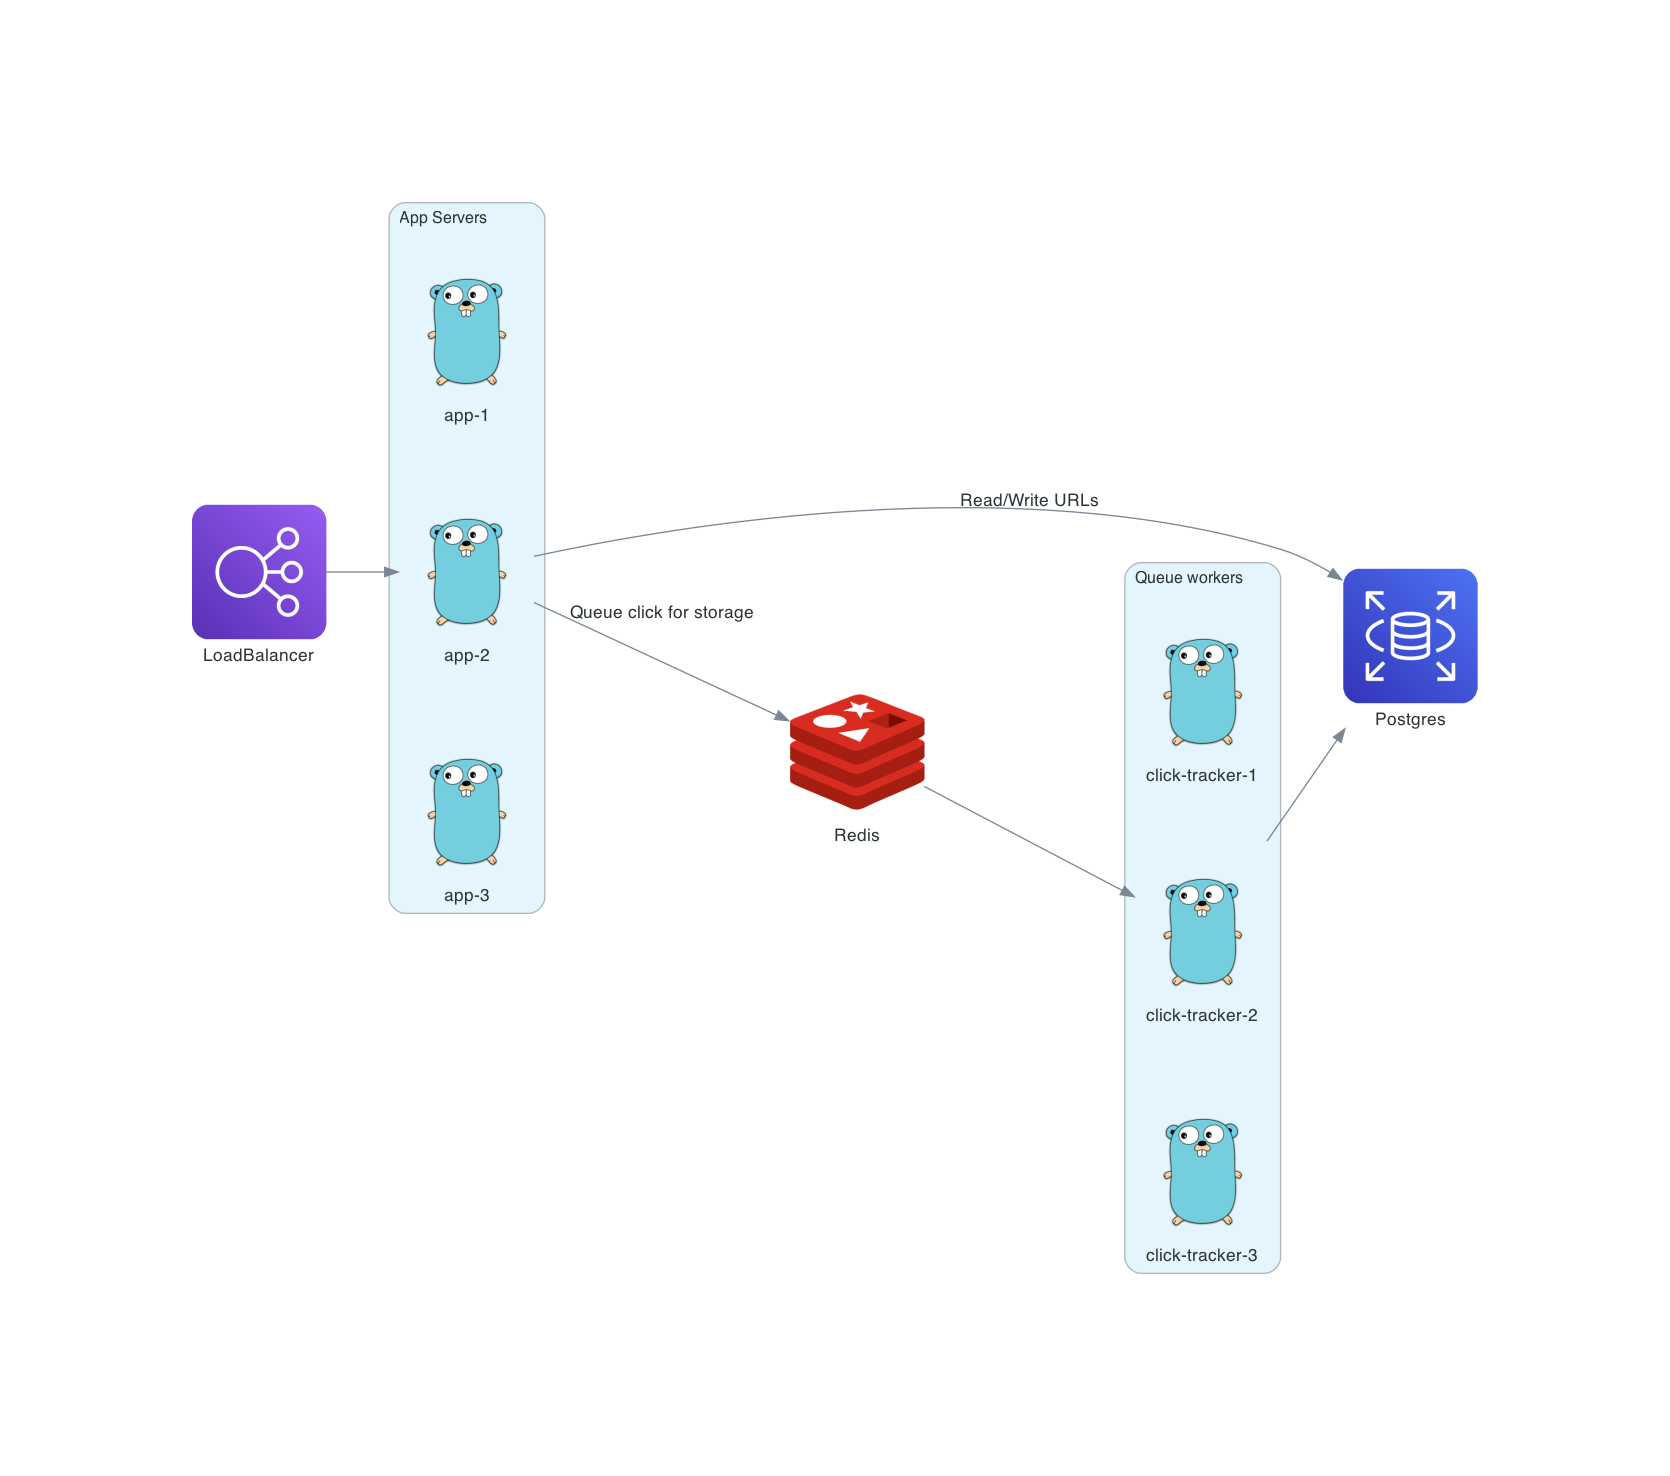
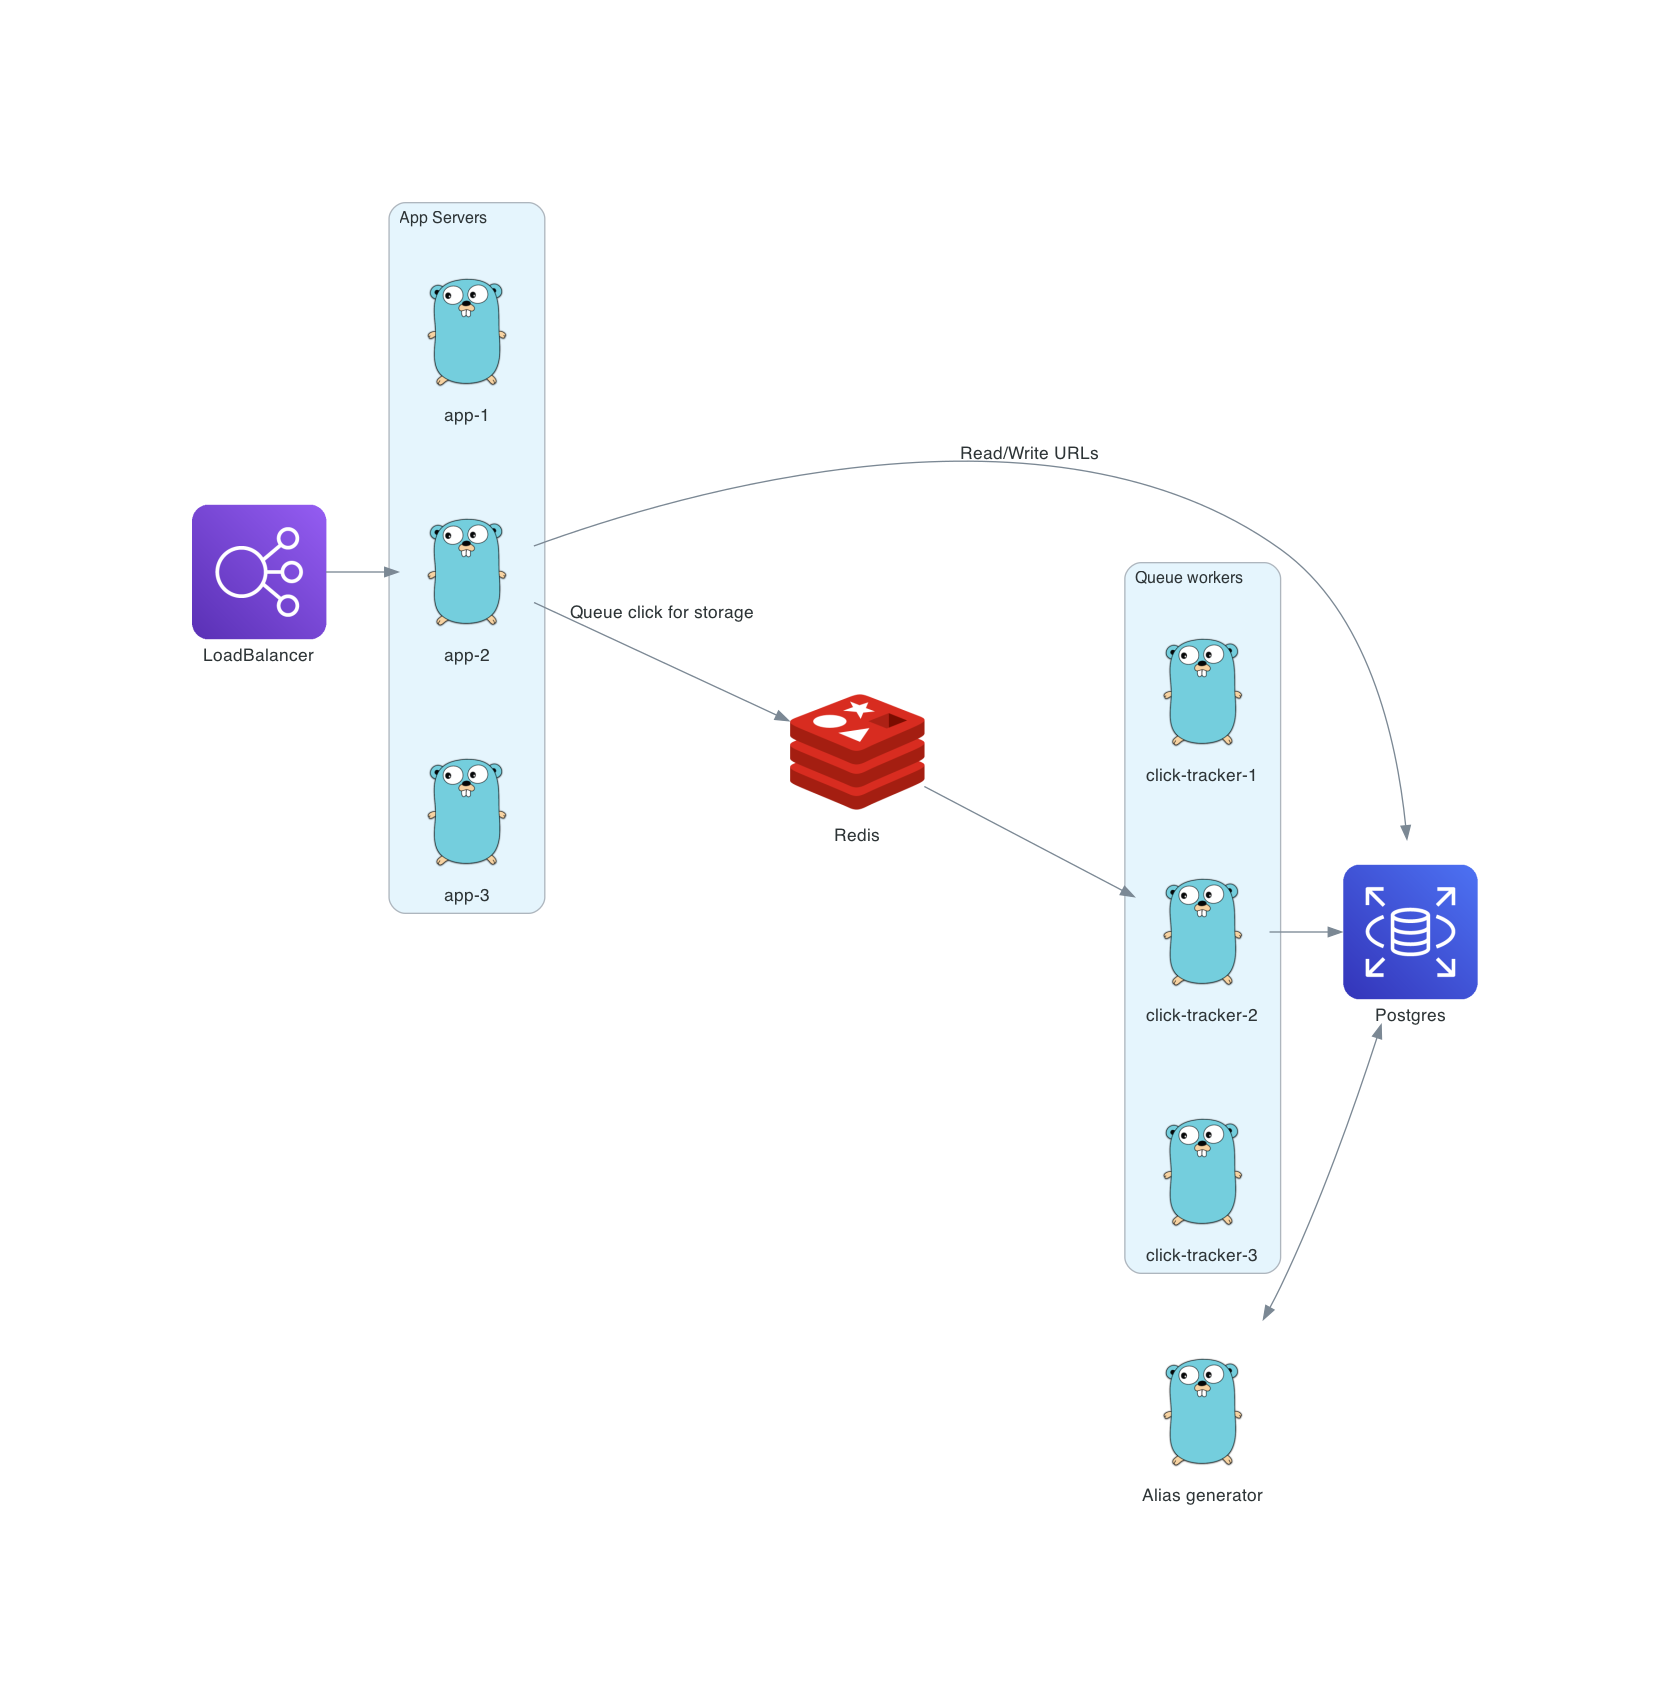
feat: add click retention worker

diff --git a/internal/urls/retention_test.go b/internal/urls/retention_test.go
@@ -1,0 +1,56 @@
+package urls_test
+
+import (
+	"context"
+	"testing"
+	"time"
+
+	"github.com/henrywhitaker3/boiler"
+	"github.com/henrywhitaker3/shorturl/internal/config"
+	"github.com/henrywhitaker3/shorturl/internal/test"
+	"github.com/henrywhitaker3/shorturl/internal/urls"
+	"github.com/stretchr/testify/require"
+)
+
+func TestItDeletesClick(t *testing.T) {
+	b := test.Boiler(t)
+
+	ctx, cancel := context.WithTimeout(context.Background(), time.Second*30)
+	defer cancel()
+
+	url := test.Url(t, b, test.UrlOpts{})
+
+	clicks := boiler.MustResolve[*urls.Clicks](b)
+
+	stats, err := clicks.Stats(ctx, url.ID)
+	require.Nil(t, err)
+	require.Zero(t, stats.Clicks)
+
+	require.Nil(t, clicks.Click(ctx, urls.StoreClick{
+		ID:   url.ID,
+		IP:   "127.0.0.1",
+		Time: time.Now().Add(-time.Hour),
+	}))
+	require.Nil(t, clicks.Click(ctx, urls.StoreClick{
+		ID:   url.ID,
+		IP:   "127.0.0.1",
+		Time: time.Now(),
+	}))
+
+	stats, err = clicks.Stats(ctx, url.ID)
+	require.Nil(t, err)
+	require.Equal(t, 2, stats.Clicks)
+
+	retention := urls.NewRetention(urls.RetentionOpts{
+		Clicks: clicks,
+		Config: config.Retention{
+			Enabled: true,
+			Period:  time.Minute,
+		},
+	})
+	require.Nil(t, retention.Run(ctx))
+
+	stats, err = clicks.Stats(ctx, url.ID)
+	require.Nil(t, err)
+	require.Equal(t, 1, stats.Clicks)
+}

diff --git a/internal/http/handlers/urls/visit.go b/internal/http/handlers/urls/visit.go
@@ -5,6 +5,7 @@ import (
 	"time"
 
 	"github.com/henrywhitaker3/boiler"
+	"github.com/henrywhitaker3/shorturl/internal/config"
 	"github.com/henrywhitaker3/shorturl/internal/http/common"
 	"github.com/henrywhitaker3/shorturl/internal/http/middleware"
 	"github.com/henrywhitaker3/shorturl/internal/logger"
@@ -17,12 +18,14 @@ import (
 type VisitHandler struct {
 	urls  urls.Urls
 	queue *queue.Publisher
+	track bool
 }
 
 func NewVisitHandler(b *boiler.Boiler) *VisitHandler {
 	return &VisitHandler{
 		urls:  boiler.MustResolve[urls.Urls](b),
 		queue: boiler.MustResolve[*queue.Publisher](b),
+		track: boiler.MustResolve[*config.Config](b).Tracking.Enabled,
 	}
 }
 
@@ -49,12 +52,14 @@ func (v *VisitHandler) Handler() echo.HandlerFunc {
 			return common.Stack(err)
 		}
 
-		if err := v.queue.Push(ctx, queue.ClickTask, queue.ClickJob{
-			ID:   url.ID,
-			IP:   c.RealIP(),
-			Time: time.Now(),
-		}); err != nil {
-			logger.Logger(ctx).Error("failed to queue click", "error", err)
+		if v.track {
+			if err := v.queue.Push(ctx, queue.ClickTask, queue.ClickJob{
+				ID:   url.ID,
+				IP:   c.RealIP(),
+				Time: time.Now(),
+			}); err != nil {
+				logger.Logger(ctx).Error("failed to queue click", "error", err)
+			}
 		}
 
 		c.Response().

diff --git a/internal/urls/retention.go b/internal/urls/retention.go
@@ -1,0 +1,58 @@
+package urls
+
+import (
+	"context"
+	"log/slog"
+	"time"
+
+	"github.com/henrywhitaker3/shorturl/internal/config"
+	"github.com/henrywhitaker3/shorturl/internal/workers"
+)
+
+type Retention struct {
+	clicks  *Clicks
+	enabled bool
+	period  time.Duration
+}
+
+type RetentionOpts struct {
+	Clicks *Clicks
+	Config config.Retention
+}
+
+func NewRetention(opts RetentionOpts) *Retention {
+	return &Retention{
+		clicks:  opts.Clicks,
+		enabled: opts.Config.Enabled,
+		period:  opts.Config.Period,
+	}
+}
+
+func (r *Retention) Name() string {
+	return "retention"
+}
+
+func (r *Retention) Timeout() time.Duration {
+	return time.Second * 30
+}
+
+func (r *Retention) Interval() workers.Interval {
+	return workers.NewInterval(time.Minute)
+}
+
+func (r *Retention) Run(ctx context.Context) error {
+	if !r.enabled {
+		return nil
+	}
+
+	deleted, err := r.clicks.Delete(ctx, time.Now().Add(-r.period))
+	if err != nil {
+		return err
+	}
+
+	slog.Info("deleted click data", "count", deleted)
+
+	return nil
+}
+
+var _ workers.Worker = &Retention{}

diff --git a/internal/config/config.go b/internal/config/config.go
@@ -187,6 +187,16 @@ type Cache struct {
 	Size int `yaml:"size" env:"SIZE, overwrite, default=500"`
 }
 
+type Retention struct {
+	Enabled bool          `yaml:"enabled" env:"ENABLED, overwrite, default=true"`
+	Period  time.Duration `yaml:"period"  env:"PERIOD, overwrite, default=48h"`
+}
+
+type Tracking struct {
+	Enabled   bool      `yaml:"enabled"   env:"ENDABLED, overwrite, default=false"`
+	Retention Retention `yaml:"retention" env:", prefix=RETENTION_"`
+}
+
 type Config struct {
 	Name        string `yaml:"name"        env:"APP_NAME"`
 	Environment string `yaml:"environment" env:"APP_ENV, overwrite, default=dev"`
@@ -209,6 +219,7 @@ type Config struct {
 
 	Generator Generator `yaml:"generator" env:", prefix=GENERATOR_"`
 	Cache     Cache     `yaml:"cache"     env:", prefix=CACHE_"`
+	Tracking  Tracking  `yaml:"tracking"  env:", prefix=TRACKING_"`
 }
 
 func Load(path string) (*Config, error) {

diff --git a/internal/app/app.go b/internal/app/app.go
@@ -268,8 +268,25 @@ func RegisterRunner(b *boiler.Boiler) (*workers.Runner, error) {
 		return nil, err
 	}
 
+	clicks, err := boiler.Resolve[*urls.Clicks](b)
+	if err != nil {
+		return nil, err
+	}
+	config, err := boiler.Resolve[*config.Config](b)
+	if err != nil {
+		return nil, err
+	}
+
+	retention := urls.NewRetention(urls.RetentionOpts{
+		Clicks: clicks,
+		Config: config.Tracking.Retention,
+	})
+
 	if err := runner.Register(gen); err != nil {
 		return nil, fmt.Errorf("failed to register generator worker: %w", err)
+	}
+	if err := runner.Register(retention); err != nil {
+		return nil, fmt.Errorf("failed to register retention worker: %w", err)
 	}
 
 	return runner, nil

diff --git a/database/queries/clicks.sql.go b/database/queries/clicks.sql.go
@@ -27,6 +27,26 @@ func (q *Queries) CountClicks(ctx context.Context, urlID uuid.UUID) (int64, erro
 	return count, err
 }
 
+const deleteClicks = `-- name: DeleteClicks :one
+WITH deleted AS (
+    DELETE FROM
+        clicks
+    WHERE
+        clicked_at <= $1 RETURNING id, url_id, ip, clicked_at
+)
+SELECT
+    count(*)
+FROM
+    deleted
+`
+
+func (q *Queries) DeleteClicks(ctx context.Context, clickedAt int64) (int64, error) {
+	row := q.db.QueryRowContext(ctx, deleteClicks, clickedAt)
+	var count int64
+	err := row.Scan(&count)
+	return count, err
+}
+
 const storeClick = `-- name: StoreClick :exec
 INSERT INTO
     clicks (id, url_id, ip, clicked_at)

diff --git a/diagrams/architecture.py b/diagrams/architecture.py
@@ -1,6 +1,6 @@
 # type: ignore
 
-from diagrams import Cluster, Diagram, Edge, Node
+from diagrams import Cluster, Diagram, Edge
 from diagrams.aws.database import RDS
 from diagrams.aws.network import ELB
 from diagrams.onprem.inmemory import Redis
@@ -24,6 +24,8 @@ with Diagram(
         click2 = Go("click-tracker-2")
         click1 = Go("click-tracker-1")
 
+    generator = Go("Alias generator")
+
     db = RDS("Postgres")
     redis = Redis("Redis")
 
@@ -33,3 +35,5 @@ with Diagram(
 
     redis >> click2
     click2 >> db
+
+    generator << Edge() >> db

diff --git a/internal/urls/clicks.go b/internal/urls/clicks.go
@@ -64,6 +64,14 @@ func (c *Clicks) Stats(ctx context.Context, id uuid.UUID) (*Stats, error) {
 	}, nil
 }
 
+func (c *Clicks) Delete(ctx context.Context, olderThan time.Time) (int, error) {
+	deleted, err := c.db.DeleteClicks(ctx, olderThan.Unix())
+	if err != nil {
+		return 0, fmt.Errorf("could not delete clicks: %w", err)
+	}
+	return int(deleted), nil
+}
+
 type ClickJobHandler struct {
 	svc *Clicks
 }

diff --git a/internal/test/app.go b/internal/test/app.go
@@ -39,6 +39,7 @@ type UrlOpts struct {
 }
 
 func Url(t *testing.T, b *boiler.Boiler, opts UrlOpts) *urls.Url {
+	require.Nil(t, boiler.MustResolve[*urls.AliasGenerator](b).Run(context.Background()))
 	url, err := boiler.MustResolve[urls.Urls](b).Create(context.Background(), urls.CreateParams{
 		ID:     uuid.MustOrdered(),
 		Url:    "https://example.com",

diff --git a/README.md b/README.md
@@ -5,3 +5,53 @@ A simple shorturl service backed by postgres and redis
 ## Architecture
 
 ![Architecture Diagram](./diagrams/assets/architecture.png)
+
+### App Servers
+
+The app server/api creates and serves shorturls.
+
+When a request comes in to create a url, a  job is queued in redis to create the
+underlying shorturl.
+
+When a shorturl is visited, a local in-memory LRU cache is first checked for
+the url, if it doesn't exist, it is stored in the cache then the client is
+redirected to the long url - this reduces reads forwarded to the database.
+
+### Generator
+
+A background process runs that generates aliases (the shorturl id). This way,
+creating a new url only has to reserve an alias in the aliases table instead
+of generating a new one itself and checking if it is available.
+
+The number of free aliases available can be modified in the config, but defaults
+to 100,000:
+
+```yaml
+generator:
+    buffer_szie: 250000
+```
+
+### Click Tracking
+
+If click tracking is turned on:
+
+```yaml
+tracking:
+    enabled: true
+```
+
+Then each visit to a shorturl will queue a job to store the click. This will store:
+
+- The shorturl
+- The IP address
+- The time the url was visited
+
+Visit retention can be configured via config file:
+
+```yaml
+tracking:
+    retention:
+        # If disabled, history will be kept indefinitely
+        enabled: true
+        period: 48h
+```
